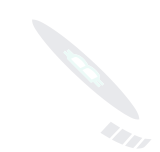
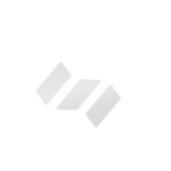
adding images

diff --git a/betting-details.html b/betting-details.html
@@ -269,13 +269,11 @@
                 <img src="assets/images/coin-5.png" class="obj-2" alt="image">
                 <img src="assets/images/coin-3.png" class="obj-3" alt="image">
                 <img src="assets/images/coin-6.png" class="obj-4" alt="image">
-                <img src="assets/images/betting-details-illus.png" class="chart-illu" alt="image">
             </div>
             <div class="banner-content">
                 <div class="container">
                     <div class="content-shape">
                         <img src="assets/images/coin-1.png" class="obj-8" alt="image">
-                        <img src="assets/images/time-circle.png" class="obj-9" alt="image">
                     </div>
                     <div class="row">
                         <div class="col-lg-6 col-md-10">

diff --git a/currency-bet.html b/currency-bet.html
@@ -269,13 +269,11 @@
                 <img src="assets/images/coin-5.png" class="obj-2" alt="image">
                 <img src="assets/images/coin-3.png" class="obj-3" alt="image">
                 <img src="assets/images/coin-6.png" class="obj-4" alt="image">
-                <img src="assets/images/chart-illu.png" class="chart-illu" alt="image">
             </div>
             <div class="banner-content">
                 <div class="container">
                     <div class="content-shape">
                         <img src="assets/images/coin-1.png" class="obj-8" alt="image">
-                        <img src="assets/images/time-circle.png" class="obj-9" alt="image">
                     </div>
                     <div class="row">
                         <div class="col-lg-6 col-md-10">

diff --git a/assets/css/style.css b/assets/css/style.css
@@ -882,7 +882,6 @@ p {
   transition: 0.3s;
   visibility: hidden;
   max-height: 350px;
-  overflow-y: scroll;
 }
 
 .header-section.user-dashboard .navbar-collapse .right-area .single-item .main-area.active {
@@ -4715,7 +4714,6 @@ p {
   .header-section .navbar .navbar-collapse .navbar-nav {
     height: 200px;
     margin: 20px 0;
-    overflow-y: auto;
     margin-bottom: 10px;
   }
   .header-section .navbar .navbar-collapse .navbar-nav .nav-item .dropdown-menu .dropend .dropdown-menu {

diff --git a/affiliate.html b/affiliate.html
@@ -269,7 +269,6 @@
             <div class="banner-content">
                 <div class="container">
                     <div class="content-shape">
-                        <img src="assets/images/sell-hero-illus.png" class="obj-8" alt="image">
                     </div>
                     <div class="row">
                         <div class="col-lg-9 col-md-10">

diff --git a/tournaments.html b/tournaments.html
@@ -270,7 +270,6 @@
             <div class="banner-content">
                 <div class="container">
                     <div class="content-shape">
-                        <img src="assets/images/sell-hero-illus.png" class="obj-8" alt="image">
                     </div>
                     <div class="row">
                         <div class="col-lg-9 col-md-10">

diff --git a/assets/scss/pages/_banner-footer.scss b/assets/scss/pages/_banner-footer.scss
@@ -263,7 +263,6 @@
                         transition: 0.3s;
                         visibility: hidden;
                         max-height: 350px;
-                        overflow-y: scroll;
                         &.active {
                             transform: translateY(0px);
                             transition: 0.3s;

diff --git a/assets/scss/main/_responsive.scss b/assets/scss/main/_responsive.scss
@@ -323,7 +323,6 @@
 	.header-section .navbar .navbar-collapse .navbar-nav {
 		height: 200px;
 		margin: 20px 0;
-    	overflow-y: auto;
 		margin-bottom: 10px;
 	}
 	.header-section .navbar .navbar-collapse .navbar-nav .nav-item .dropdown-menu .dropend .dropdown-menu {
